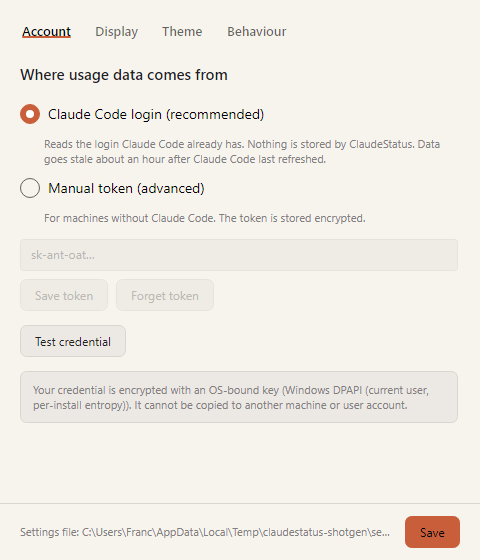
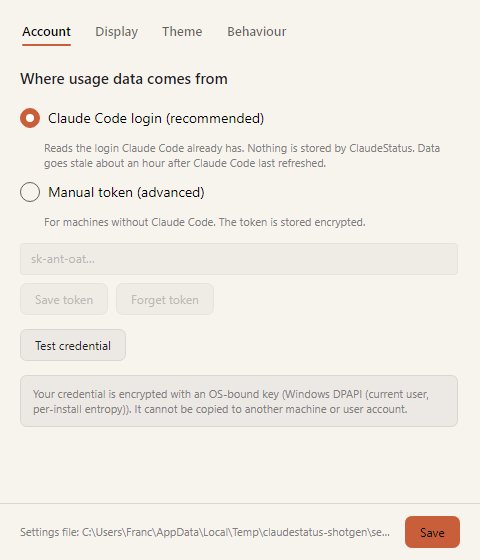
docs(readme): regenerate the screenshots for the new mark
Every readme image except the macOS menu bar is re-rendered, so none of them
still shows the Claude mark.

They are produced by a new ScreenshotGenerator rather than by hand. The
previous images came from a capture script nobody kept, which is why two of
them had quietly gone stale: themes/widget-matcha.png was the only gallery
shot taken on a light taskbar and nothing recorded that, and the details
popup's heading mark is 19px in the AXAML while the shipped image showed it
at about half that. Both are now what the app actually draws.

The generator renders the real windows through the real themes in the
headless Skia session the rest of the suite already uses, at a fixed clock so
"resets in 2h 37m" and every absolute date stay put between runs. Only
report-en.png came out byte-identical, which is the check that the harness
reproduces the originals rather than merely resembling them; everywhere else
the diff is confined to the mark.

macos-menu-bar.png is deliberately untouched. The bar, its spacing and the
system icons beside ours are macOS's, and a headless Windows render of the
item alone would be a picture of something the reader never sees.

Claude-Session: https://claude.ai/code/session_01Aopiyb5sxEx95EVKwMaNqr

diff --git a/tests/ClaudeStatus.App.Tests/ScreenshotGenerator.cs b/tests/ClaudeStatus.App.Tests/ScreenshotGenerator.cs
@@ -1,0 +1,336 @@
+using System.Diagnostics.CodeAnalysis;
+using Avalonia;
+using Avalonia.Controls;
+using Avalonia.Headless;
+using Avalonia.Media;
+using Avalonia.Media.Imaging;
+using Avalonia.Threading;
+using ClaudeStatus.App.Theming;
+using ClaudeStatus.App.Tray;
+using ClaudeStatus.App.Views;
+using ClaudeStatus.Platform;
+using ClaudeStatus.Security;
+using ClaudeStatus.Theming;
+using Microsoft.Extensions.Time.Testing;
+
+namespace ClaudeStatus.App.Tests;
+
+/// <summary>
+/// Rebuilds the screenshots the readme shows.
+/// </summary>
+/// <remarks>
+/// <para>
+/// The images are committed binaries, so this does not run in CI. It runs when
+/// somebody asks for it:
+/// </para>
+/// <code>
+/// $env:CLAUDESTATUS_WRITE_SCREENSHOTS = "$PWD/docs/screenshots"
+/// dotnet test tests/ClaudeStatus.App.Tests --filter-method '*Regenerates_the_readme*'
+/// </code>
+/// <para>
+/// The path has to be absolute, for the same reason it does in
+/// <see cref="IconGenerator"/>: the test host runs with its own output directory
+/// as the working directory.
+/// </para>
+/// <para>
+/// It exists because the readme's windows were previously captured by a script
+/// nobody kept, which made a change to the mark or a colour into an afternoon of
+/// lining screenshots up by hand. Every image here is a real render of the real
+/// window through the real theme - the same headless Skia session the rest of
+/// these tests assert pixels with - so the only thing that can drift between the
+/// readme and the app is this file.
+/// </para>
+/// <para>
+/// It deliberately does not cover <c>macos-menu-bar.png</c>. That one is a
+/// photograph of a menu bar we do not draw: the bar, its spacing and the system
+/// icons beside ours belong to macOS, and a headless Windows render of the item
+/// alone would be a picture of something the reader never sees.
+/// </para>
+/// </remarks>
+[Collection(HeadlessTests.Name)]
+/// <remarks>
+/// The <c>HeadlessAppFixture</c> parameter is what makes xUnit build the shared
+/// Avalonia session before this runs; <c>Invoke</c> reaches the dispatcher
+/// statically.
+/// </remarks>
+[SuppressMessage("Performance", "CA1801:Review unused parameters",
+    Justification = "The fixture parameter forces xUnit to start the Avalonia session.")]
+public class ScreenshotGenerator(HeadlessAppFixture fixture)
+{
+    /// <summary>The instant every window is rendered at, so the countdowns are stable.</summary>
+    /// <remarks>
+    /// Rendering at <c>DateTimeOffset.Now</c> would rewrite "resets in 2h 37m" and
+    /// every absolute date in the report on each run, making a regeneration a diff
+    /// whether anything changed or not. The value is the one the shipped images
+    /// were taken at, so re-running this changes only what actually moved.
+    /// </remarks>
+    private static readonly DateTimeOffset Now = new(2026, 9, 5, 14, 0, 0, TimeSpan.Zero);
+
+    /// <summary>The Windows 11 taskbar, dark and light.</summary>
+    /// <remarks>
+    /// Sampled from the shipped images rather than derived: the widget is
+    /// re-parented into a strip we do not paint, and these are what it actually
+    /// sits on. They are the backdrop for the widget shots only - the popup is a
+    /// window in its own right and composites onto black like any other.
+    /// </remarks>
+    private static readonly Color DarkTaskbar = Color.FromRgb(0x20, 0x20, 0x20);
+
+    private static readonly Color LightTaskbar = Color.FromRgb(0xF3, 0xF3, 0xF3);
+
+    /// <summary>The themes the readme shows off, in the order it shows them.</summary>
+    /// <remarks>
+    /// Each carries the taskbar its widget is shown on, which is not a property of
+    /// the theme: the strip belongs to the reader, and a gallery of three shots of
+    /// the same dark strip would say nothing about how the widget copes with the
+    /// light one. Matcha draws the light taskbar for that reason alone.
+    /// </remarks>
+    private static readonly (string Id, TrayBackground Taskbar)[] Gallery =
+    [
+        ("claude", TrayBackground.Dark),
+        ("nebula", TrayBackground.Dark),
+        ("matcha", TrayBackground.Light),
+    ];
+
+    private static string? OutputDirectory
+        => Environment.GetEnvironmentVariable("CLAUDESTATUS_WRITE_SCREENSHOTS");
+
+    [Fact]
+    public void Regenerates_the_readme_screenshots()
+    {
+        string? root = OutputDirectory;
+        Assert.SkipWhen(
+            string.IsNullOrWhiteSpace(root),
+            "Set CLAUDESTATUS_WRITE_SCREENSHOTS to docs/screenshots to rewrite the images.");
+
+        fixture.Should().NotBeNull("the fixture is what boots Avalonia for this collection");
+
+        HeadlessAppFixture.Invoke(() =>
+        {
+            Directory.CreateDirectory(Path.Combine(root!, "themes"));
+            Directory.CreateDirectory(Path.Combine(root!, "report"));
+
+            // The popup, once per gallery theme. The readme shows the Claude one
+            // twice - as the tour's opening image and as the first of the three -
+            // so window-details.png and themes/claude.png are the same render.
+            foreach ((string id, _) in Gallery)
+            {
+                Save(RenderDetails(Theme(id)), Path.Combine(root!, "themes", $"{id}.png"));
+            }
+
+            File.Copy(
+                Path.Combine(root!, "themes", "claude.png"),
+                Path.Combine(root!, "window-details.png"),
+                overwrite: true);
+
+            Save(RenderConfig(Theme("claude")), Path.Combine(root!, "window-config.png"));
+            Save(RenderReport(Theme("claude")), Path.Combine(root!, "report", "report-en.png"));
+
+            // The widget: the themed card, the two blends, and the Fable column.
+            Save(
+                RenderWidget(Theme("claude"), TrayBackground.Dark, followSystem: false, showFable: false),
+                Path.Combine(root!, "taskbar-widget.png"));
+            Save(
+                RenderWidget(Theme("claude"), TrayBackground.Dark, followSystem: true, showFable: false),
+                Path.Combine(root!, "taskbar-widget-blend.png"));
+            Save(
+                RenderWidget(Theme("claude"), TrayBackground.Light, followSystem: true, showFable: false),
+                Path.Combine(root!, "taskbar-widget-blend-light.png"));
+            Save(
+                RenderWidget(Theme("claude"), TrayBackground.Dark, followSystem: false, showFable: true),
+                Path.Combine(root!, "taskbar-widget-fable.png"));
+
+            foreach ((string id, TrayBackground taskbar) in Gallery)
+            {
+                Save(
+                    RenderWidget(Theme(id), taskbar, followSystem: false, showFable: false),
+                    Path.Combine(root!, "themes", $"widget-{id}.png"));
+            }
+        });
+    }
+
+    private static Theme Theme(string id) => ThemeCatalog.BuiltIn.Single(t => t.Id == id);
+
+    /// <summary>The reading every window is rendered from.</summary>
+    /// <remarks>
+    /// Session under the threshold, the week over half, Fable past it - one
+    /// window in each of the three states the bars can be in, so a screenshot
+    /// shows the normal, the busy and the alert colour at once.
+    /// </remarks>
+    private static UsageSnapshot Snapshot() => new(
+        Session: UsageWindow.Create(29d, Now.AddHours(2).AddMinutes(37)),
+        Week: UsageWindow.Create(58d, Now.AddDays(2)),
+        WeekFable: UsageWindow.Create(88d, Now.AddDays(2)),
+        OtherWindows: new Dictionary<string, UsageWindow>(),
+        FetchedAt: Now,
+        IsStale: false);
+
+    /// <summary>
+    /// Renders a window and hands back its pixels.
+    /// </summary>
+    /// <remarks>
+    /// <c>RunJobs</c> is what makes this a picture of a laid-out window rather
+    /// than of an empty one: <c>Show</c> queues the layout pass, and the capture
+    /// would otherwise race it.
+    /// </remarks>
+    private static WriteableBitmap Render(Window window)
+    {
+        window.Show();
+        Dispatcher.UIThread.RunJobs();
+
+        WriteableBitmap frame = window.CaptureRenderedFrame()
+            ?? throw new InvalidOperationException(
+                $"{window.GetType().Name} rendered no frame; is the headless drawing backend on?");
+
+        window.Close();
+        return frame;
+    }
+
+    private static WriteableBitmap RenderDetails(Theme theme)
+    {
+        // Fully opaque, which is not the app's default. The default 10 % lets the
+        // black the headless session clears to show through, and the readme would
+        // then show a popup a shade darker than the theme it is illustrating.
+        ThemeApplier.Apply(Application.Current!, theme, string.Empty, osdTransparency: 0d);
+
+        var clock = new FakeTimeProvider(Now);
+        using var monitor = new UsageMonitor(
+            new FakeUsageProvider(FakeUsageScenario.Healthy, clock), new PollingOptions(), clock);
+
+        using var viewModel = new DetailsViewModel(
+            monitor, () => new AppSettings(), TestLocalizer.English(), clock);
+        viewModel.Apply(Snapshot());
+
+        return Render(new DetailsWindow { DataContext = viewModel });
+    }
+
+    private static WriteableBitmap RenderConfig(Theme theme)
+    {
+        ThemeApplier.Apply(Application.Current!, theme, string.Empty, osdTransparency: 0d);
+
+        return Render(new ConfigWindow { DataContext = BuildConfigViewModel() });
+    }
+
+    private static WriteableBitmap RenderReport(Theme theme)
+    {
+        ThemeApplier.Apply(Application.Current!, theme, string.Empty, osdTransparency: 0d);
+
+        var clock = new FakeTimeProvider(Now);
+        using var monitor = new UsageMonitor(
+            new FakeUsageProvider(FakeUsageScenario.Healthy, clock), new PollingOptions(), clock);
+
+        using var viewModel = new ReportViewModel(
+            monitor,
+            new FakeUsageProvider(FakeUsageScenario.Healthy, clock),
+            new StubPlatformInfo(),
+            TestLocalizer.English(),
+            clock);
+        viewModel.Apply(Snapshot());
+
+        return Render(new ReportWindow { DataContext = viewModel });
+    }
+
+    private static WriteableBitmap RenderWidget(
+        Theme theme, TrayBackground taskbar, bool followSystem, bool showFable)
+    {
+        ThemeApplier.Apply(Application.Current!, theme, string.Empty, osdTransparency: 0d);
+
+        var viewModel = new TaskbarWidgetViewModel(TestLocalizer.English());
+        viewModel.Configure(80d, showFable: showFable, followSystem: followSystem);
+        viewModel.Update(Snapshot(), IndicatorAlert.None, Now);
+
+        var window = new TaskbarWidgetWindow
+        {
+            DataContext = viewModel,
+
+            // The strip it is re-parented into. Blended, the widget draws no card
+            // at all, so this is not a backdrop behind the subject - it is the
+            // subject's background, and getting it wrong would show white text on
+            // black in a shot captioned "light taskbar".
+            Background = new SolidColorBrush(
+                taskbar == TrayBackground.Light ? LightTaskbar : DarkTaskbar),
+        };
+
+        TaskbarInk.Apply(window.Resources, taskbar);
+        return Render(window);
+    }
+
+    private static void Save(WriteableBitmap bitmap, string path)
+    {
+        using (bitmap)
+        {
+            using var file = File.Create(path);
+            bitmap.Save(file, new PngBitmapEncoderOptions());
+        }
+    }
+
+    private static CredentialService BuildCredentialService()
+        => new(
+            new NullSecretStore(),
+            new NullTokenSource(),
+            _ => new FakeUsageProvider(FakeUsageScenario.Healthy, new FakeTimeProvider(Now)));
+
+    private static ConfigViewModel BuildConfigViewModel()
+        => new(
+            BuildCredentialService(),
+            new StubAutostart(),
+            new StubPlatformInfo(),
+            new UnsupportedTaskbarHost(),
+            new JsonConfigStore(Path.Combine(Path.GetTempPath(), "claudestatus-shotgen")),
+            TestLocalizer.English(),
+            new ClaudeStatus.Localization.JsonLanguageStore(
+                Path.Combine(Path.GetTempPath(), "claudestatus-shotgen")),
+            new JsonThemeStore(Path.Combine(Path.GetTempPath(), "claudestatus-shotgen")),
+            () => true,
+            () => new AppSettings(),
+            _ => Task.CompletedTask);
+
+    private sealed class StubPlatformInfo : IPlatformInfo
+    {
+        public PlatformKind Kind => PlatformKind.Windows;
+
+        public string OperatingSystemName => "Test OS";
+
+        public string ConfigDirectory => Path.Combine(Path.GetTempPath(), "claudestatus-shotgen");
+
+        public TraySupport TraySupport => TraySupport.Available;
+
+        public string? ExecutablePath => Environment.ProcessPath;
+
+        public bool SupportsInlineTrayText => false;
+
+        public bool TrayIsAtTop => false;
+    }
+
+    private sealed class StubAutostart : IAutostart
+    {
+        public string DescriptionKey => "Autostart_WindowsRegistry";
+
+        public bool IsSupported => true;
+
+        public Task<bool> IsEnabledAsync(CancellationToken ct = default) => Task.FromResult(false);
+
+        public Task SetEnabledAsync(bool enabled, CancellationToken ct = default) => Task.CompletedTask;
+    }
+
+    private sealed class NullSecretStore : ISecretStore
+    {
+        public string DescriptionKey => "Store_WindowsDpapi";
+
+        public bool IsHardened => true;
+
+        public Task StoreAsync(string key, ReadOnlyMemory<byte> secret, CancellationToken ct)
+            => Task.CompletedTask;
+
+        public Task<byte[]?> RetrieveAsync(string key, CancellationToken ct)
+            => Task.FromResult<byte[]?>(null);
+
+        public Task DeleteAsync(string key, CancellationToken ct) => Task.CompletedTask;
+    }
+
+    private sealed class NullTokenSource : IAccessTokenSource
+    {
+        public string DescriptionKey => "TokenSource_ClaudeCodeLogin";
+
+        public Task<byte[]?> GetAccessTokenAsync(CancellationToken ct) => Task.FromResult<byte[]?>(null);
+    }
+}

diff --git a/tests/ClaudeStatus.App.Tests/WindowLoadTests.cs b/tests/ClaudeStatus.App.Tests/WindowLoadTests.cs
@@ -192,7 +192,7 @@ public class WindowLoadTests(HeadlessAppFixture fixture)
     }
 
     [Fact]
-    public void The_taskbar_widget_window_loads_and_draws_the_Claude_mark()
+    public void The_taskbar_widget_window_loads_and_draws_the_app_mark()
     {
         // An {x:Static} that fails to resolve leaves Data null, and the widget
         // then loads perfectly with nothing drawn where the mark should be. The
